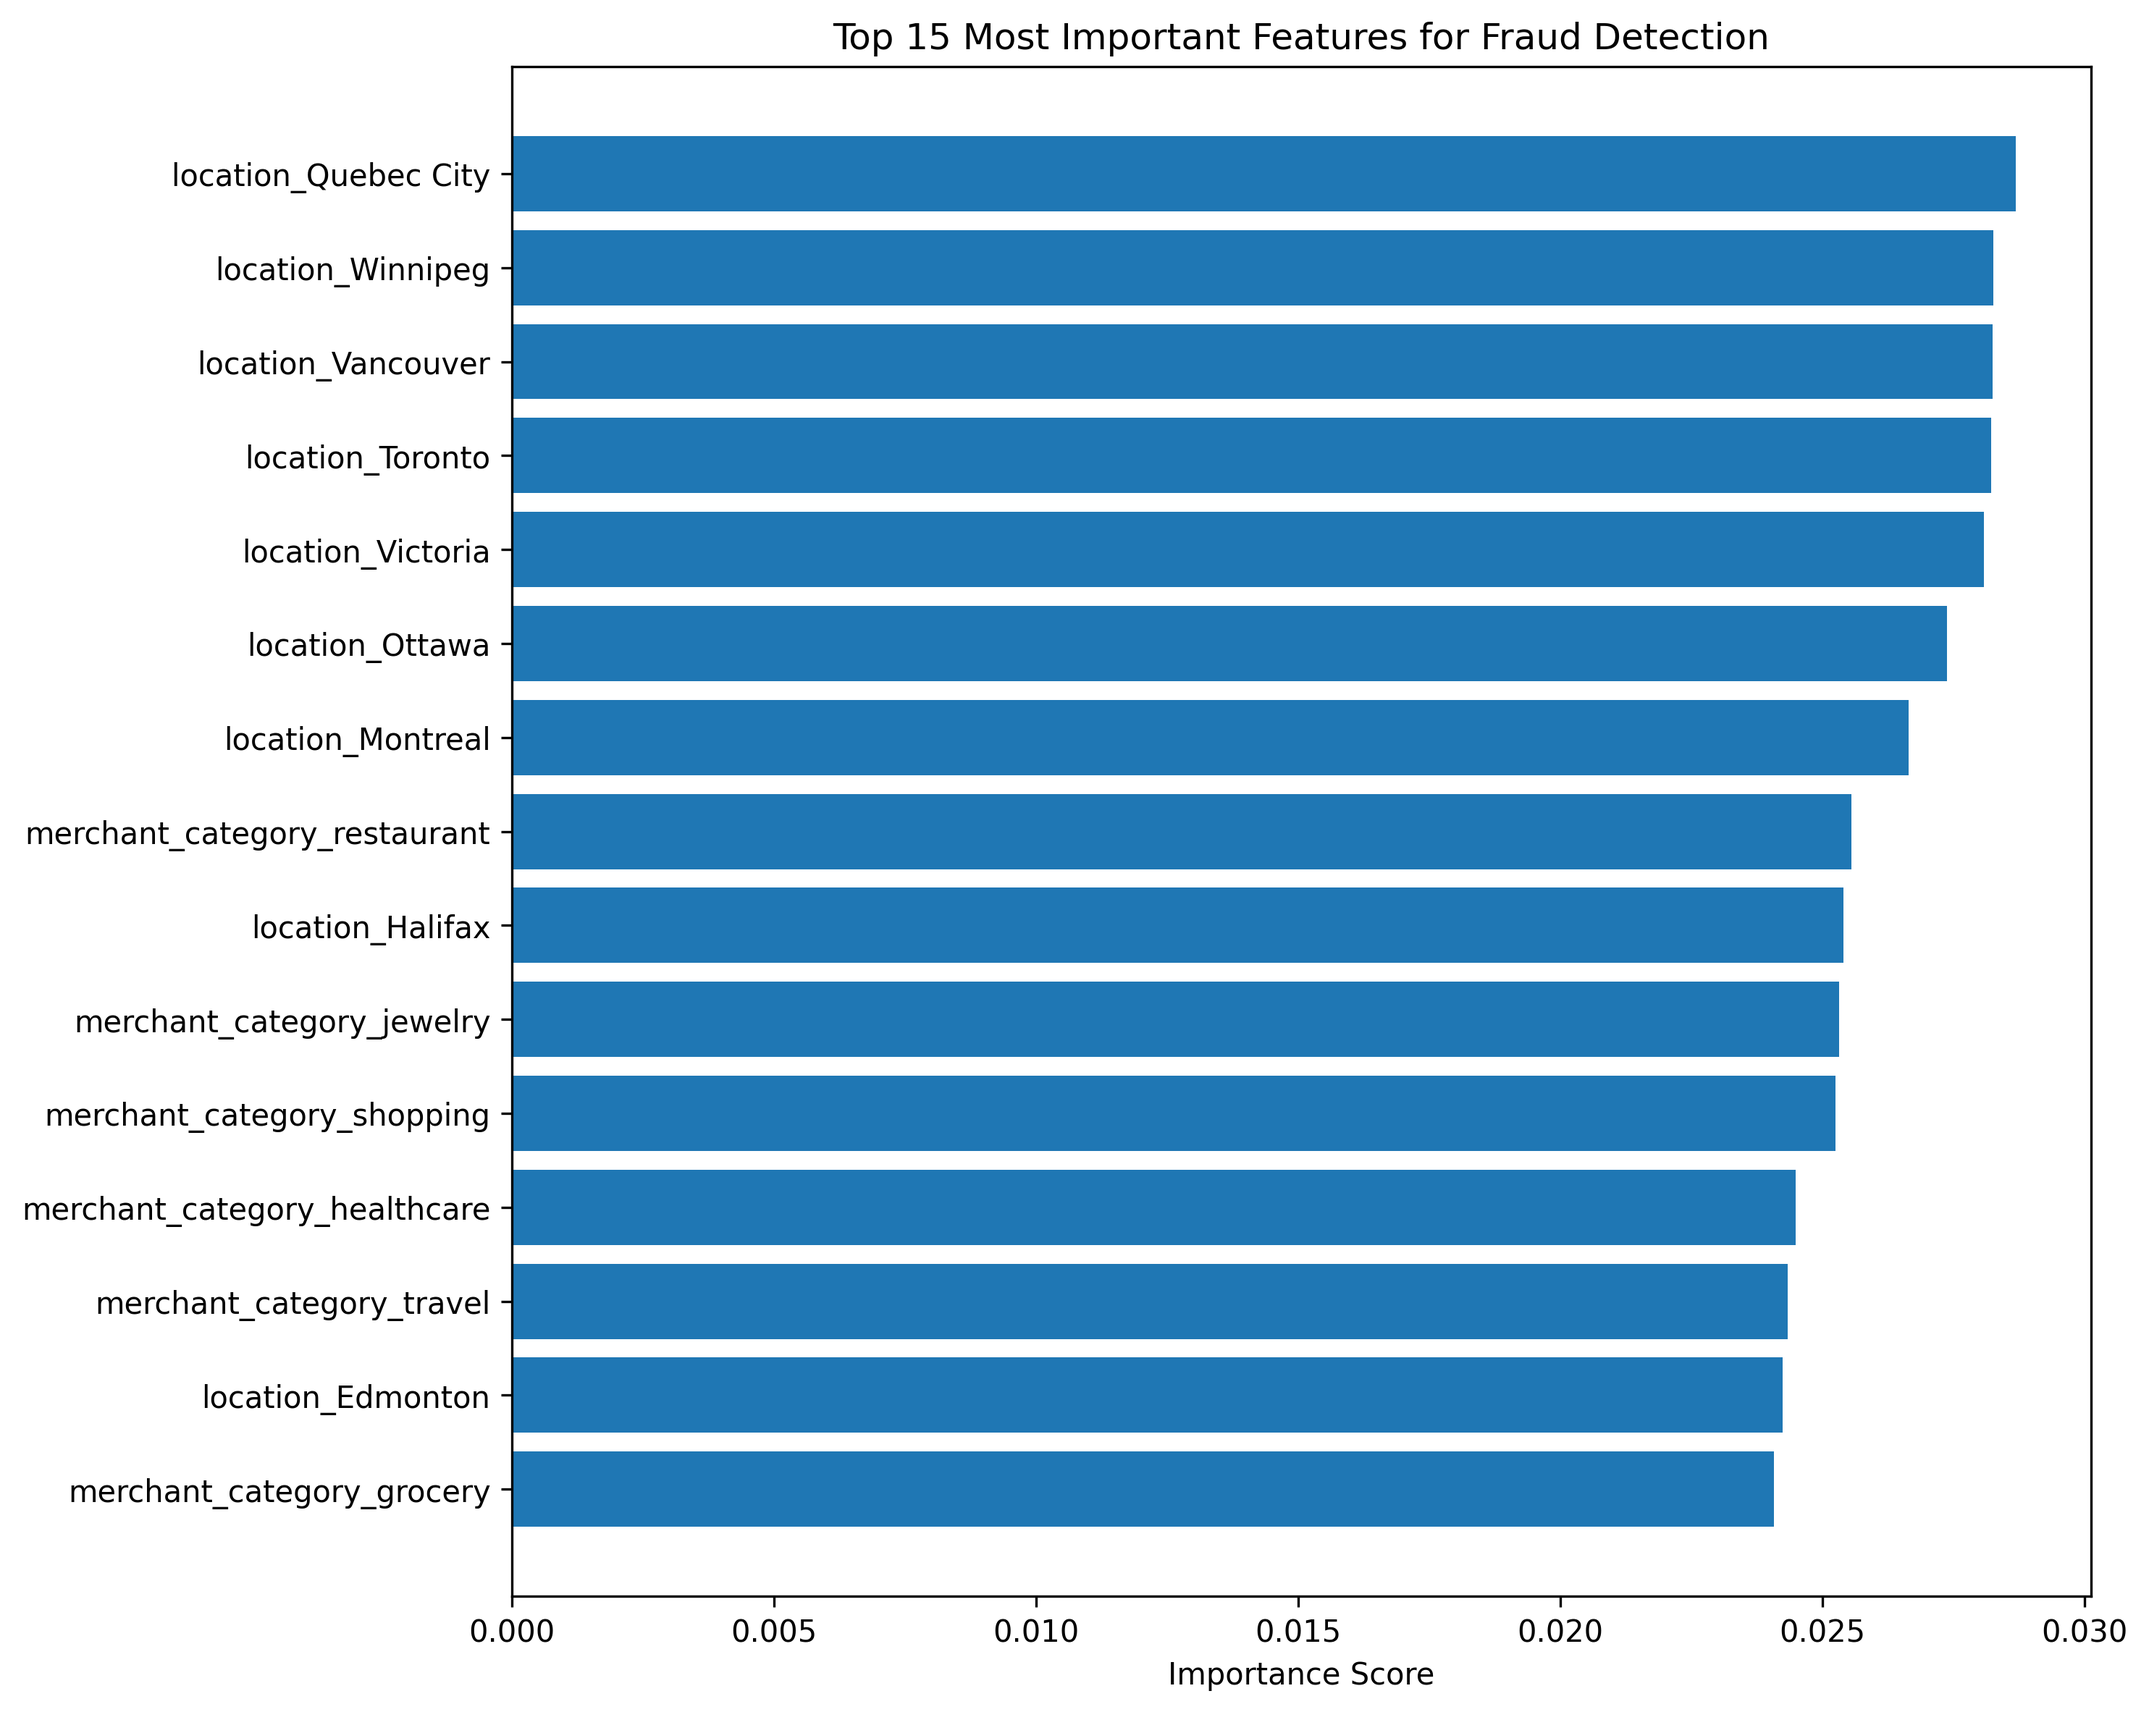
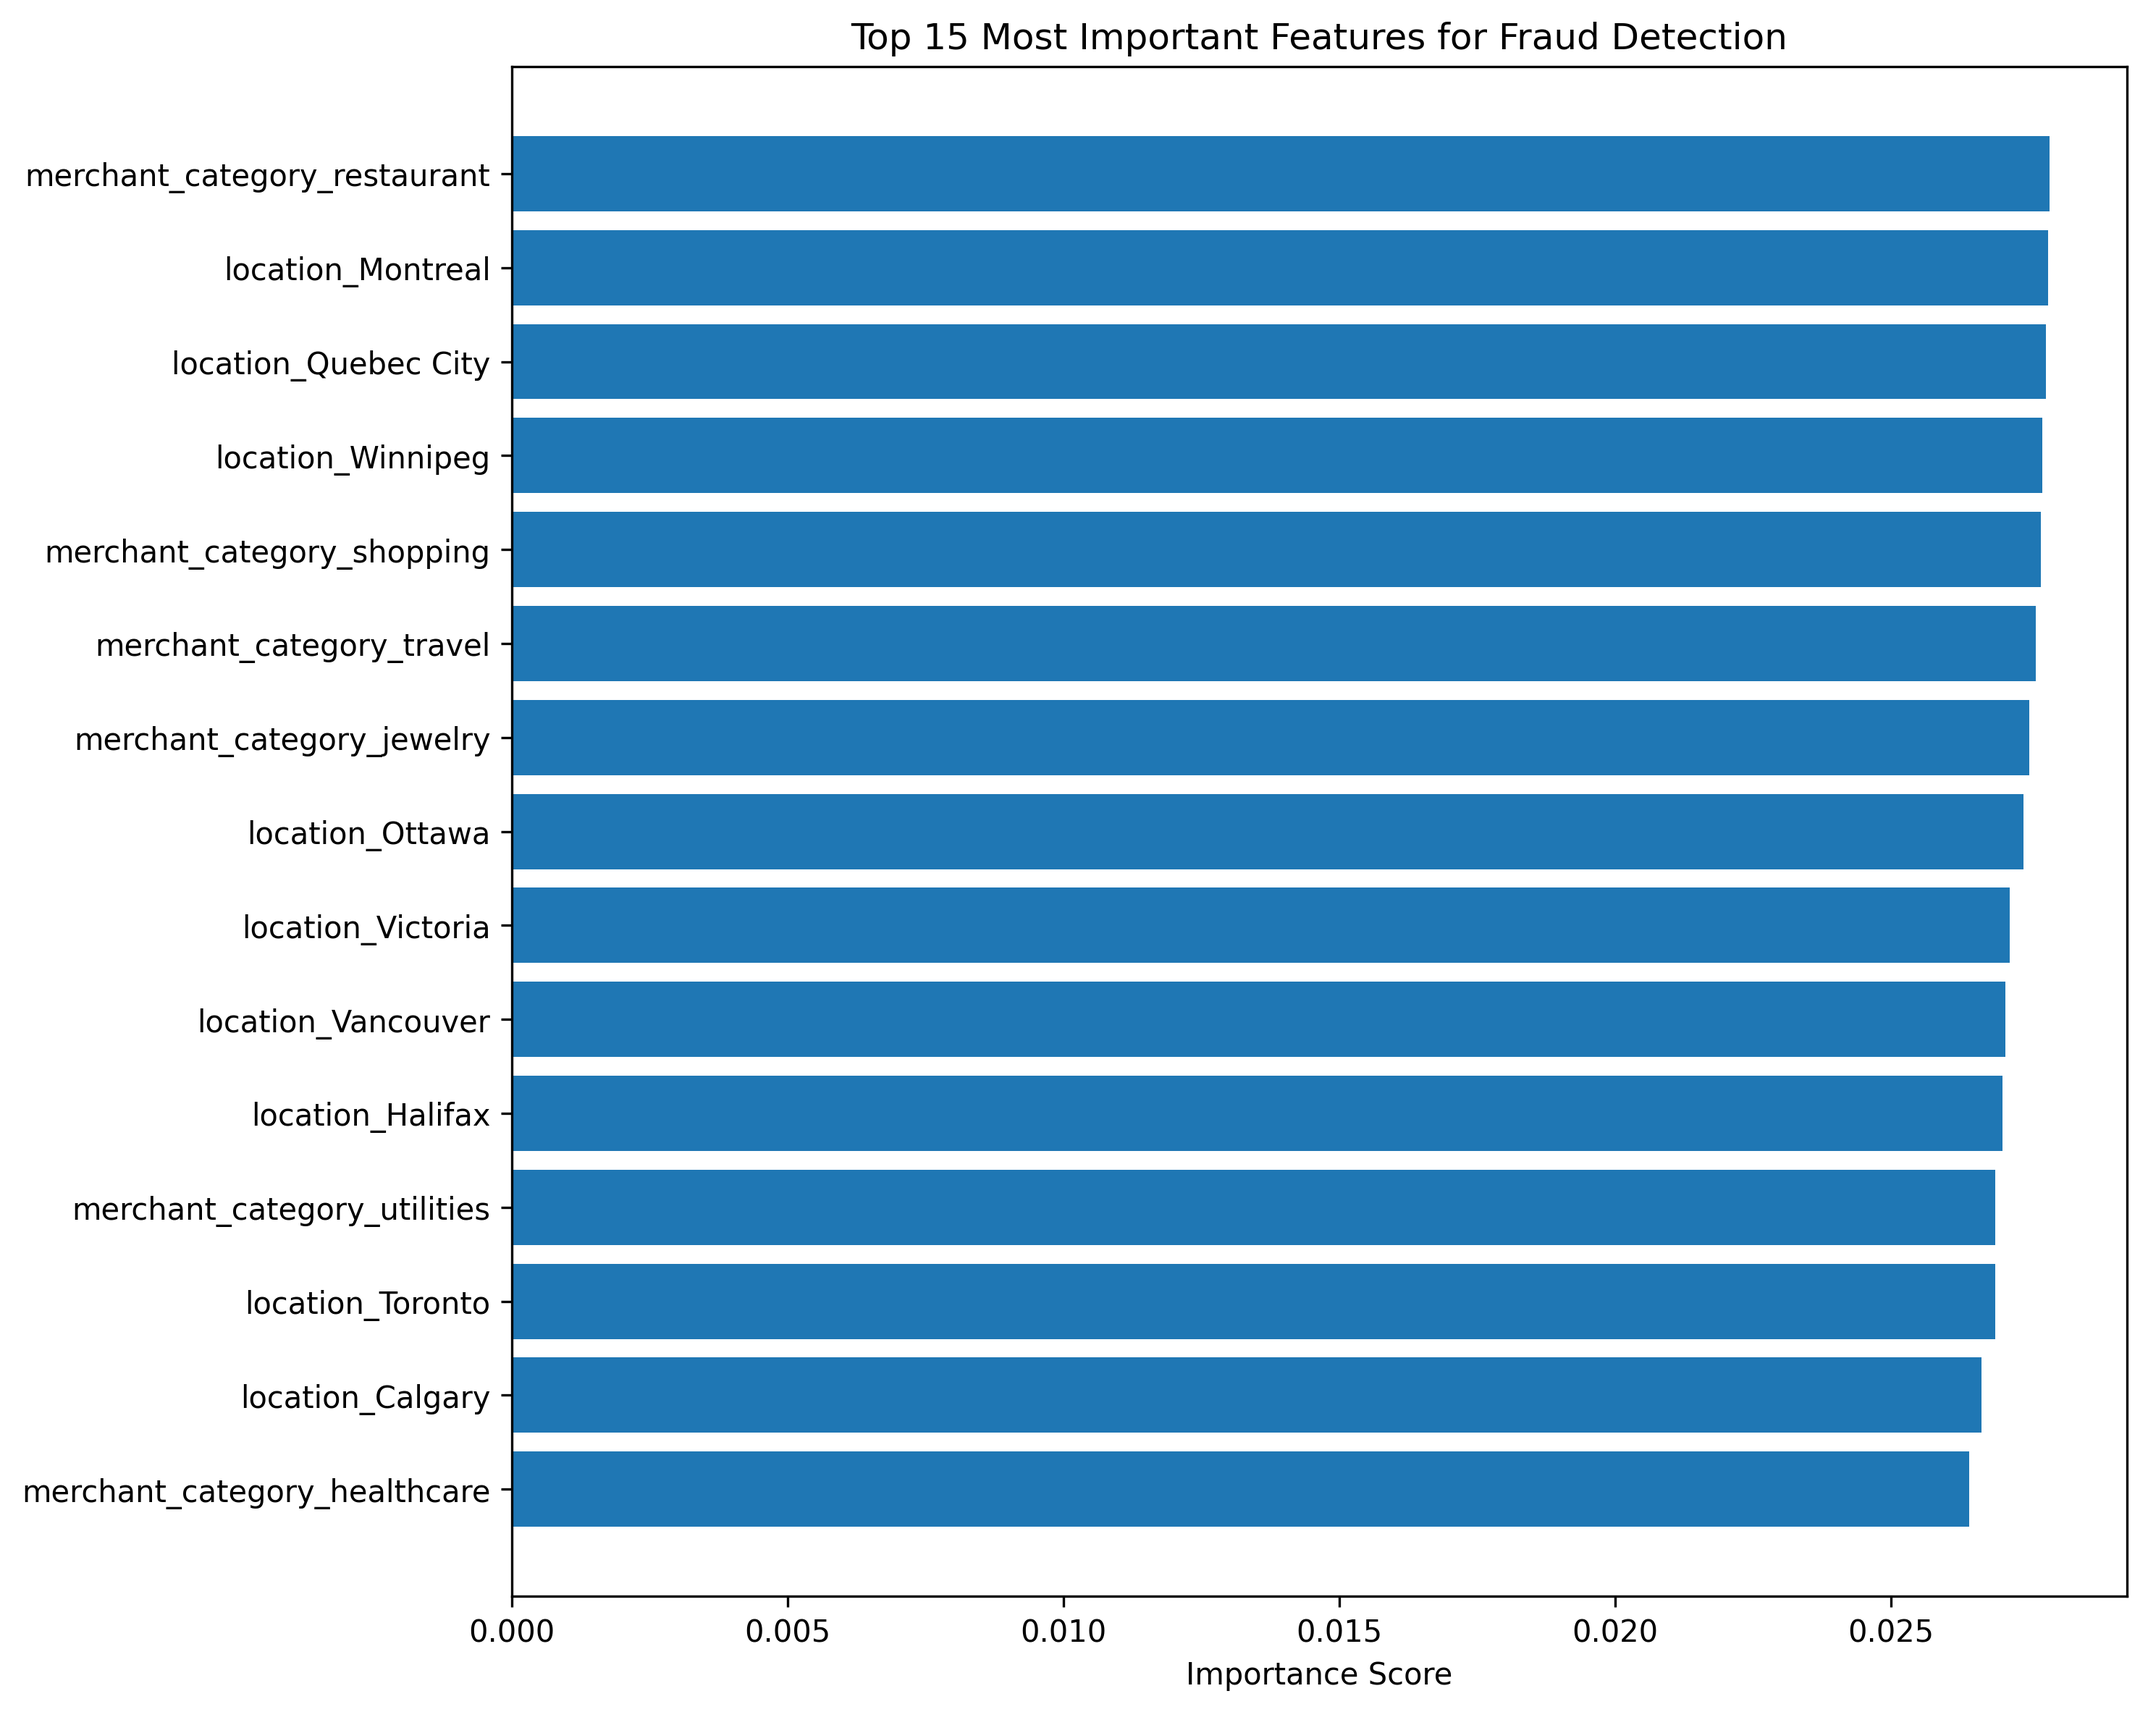
feat(train_models): 1-class svm

diff --git a/src/train_models.py b/src/train_models.py
@@ -1,6 +1,7 @@
 import pandas as pd
 import numpy as np
 from sklearn.ensemble import IsolationForest
+from sklearn.svm import OneClassSVM
 from sklearn.metrics import (
     confusion_matrix, classification_report, average_precision_score, roc_auc_score,
      roc_curve, precision_recall_curve,
@@ -33,6 +34,21 @@ def train_isolation_forest(X_train, contamination = 0.025):
 
     model.fit(X_train)
     print("Training done!")
+    return model
+
+def train_one_class_svm(X_train, nu=0.05):
+    model = OneClassSVM(
+        kernel='rbf',  # Radial Basis Function (Gaussian kernel)
+        gamma='auto',  # Kernel coefficient (auto = 1/n_features)
+        nu=nu,  # Expected outlier fraction
+        cache_size=500,  # Memory cache for kernel (MB)
+        verbose=True
+    )
+    
+    print(f"Training on {len(X_train)} samples with nu={nu}...")
+    model.fit(X_train)
+    
+    print("Training complete!")
     return model
 
 def eval_model(model, X, y, dataset_name="Test"):
@@ -169,7 +185,6 @@ def plot_evaluation_metrics(train_metrics, test_metrics, y_train, y_test):
     plt.savefig('models/model_evaluation.png', dpi=300, bbox_inches='tight')
     print("\nEvaluation plots saved to: models/model_evaluation.png")
 
-
 def analyze_feature_importance(model, feature_names, X_train, top_n=15):
     print(f"\nStarting feature importance analysis for {len(feature_names)} features...")
     baseline_scores = model.decision_function(X_train)
@@ -222,61 +237,32 @@ def main():
         encoder=encoder  # Pass the encoder from training
     )
 
-    contamination = y_train.mean()
-    model = train_isolation_forest(X_train, contamination=contamination)
+    #contamination = y_train.mean()        
+    model_if = train_isolation_forest(X_train, contamination=0.05)
+    model_svm = train_one_class_svm(X_train, nu=0.05)
+    
+    train_metrics_if = eval_model(model_if, X_train, y_train, "Training (IF)")
+    test_metrics_if = eval_model(model_if, X_test, y_test, "Test (IF)")
 
-    train_metrics = eval_model(model, X_train, y_train, "Training")
-    test_metrics = eval_model(model, X_test, y_test, "Test")
-
-    plot_evaluation_metrics(train_metrics, test_metrics, y_train, y_test)
+    train_metrics_svm = eval_model(model_svm, X_train, y_train, "Training (SVM)")
+    test_metrics_svm = eval_model(model_svm, X_test, y_test, "Test (SVM)")
     
-    sample_size = min(1000, len(X_train))
-    X_sample = X_train.sample(sample_size, random_state=42)
-    feature_importance_df = analyze_feature_importance(
-        model, feature_names, X_sample
-    )
-    
-    joblib.dump(model, 'models/isolation_forest.pkl')
-    print("✓ Model saved to: models/isolation_forest.pkl")
-    
-    joblib.dump(scaler, 'models/scaler.pkl')
-    print("✓ Scaler saved to: models/scaler.pkl")
-    
-    joblib.dump(feature_names, 'models/feature_names.pkl')
-    print("✓ Feature names saved to: models/feature_names.pkl")
-    
-    feature_importance_df.to_csv('models/feature_importance.csv', index=False)
-    print("✓ Feature importance saved to: models/feature_importance.csv")
-    
-    metrics_summary = {
-        'train': {
-            'roc_auc': float(train_metrics['roc_auc']),
-            'avg_precision': float(train_metrics['avg_precision']),
-            'false_alarm_rate': float(train_metrics['false_alarm_rate']),
-            'fraud_detection_rate': float(train_metrics['fraud_detection_rate'])
-        },
-        'test': {
-            'roc_auc': float(test_metrics['roc_auc']),
-            'avg_precision': float(test_metrics['avg_precision']),
-            'false_alarm_rate': float(test_metrics['false_alarm_rate']),
-            'fraud_detection_rate': float(test_metrics['fraud_detection_rate'])
-        }
-    }
-    
-    import json
-    with open('models/metrics_summary.json', 'w') as f:
-        json.dump(metrics_summary, f, indent=4)
-    print("✓ Metrics summary saved to: models/metrics_summary.json")
-    
-    #Summary
+    # Compare
     print("\n" + "="*70)
-    print(" TRAINING COMPLETE!")
+    print(" MODEL COMPARISON")
     print("="*70)
-    print("\nModel Performance Summary:")
-    print(f"  Test ROC-AUC: {test_metrics['roc_auc']:.4f}")
-    print(f"  Test Average Precision: {test_metrics['avg_precision']:.4f}")
-    print(f"  Fraud Detection Rate: {test_metrics['fraud_detection_rate']:.2f}%")
-    print(f"  False Alarm Rate: {test_metrics['false_alarm_rate']:.2f}%")
+    print("\nIsolation Forest:")
+    print(f"  ROC-AUC: {test_metrics_if['roc_auc']:.4f}")
+    print(f"  Fraud Detection: {test_metrics_if['fraud_detection_rate']:.2f}%")
+    print(f"  False Alarms: {test_metrics_if['false_alarm_rate']:.2f}%")
     
+    print("\nOne-Class SVM:")
+    print(f"  ROC-AUC: {test_metrics_svm['roc_auc']:.4f}")
+    print(f"  Fraud Detection: {test_metrics_svm['fraud_detection_rate']:.2f}%")
+    print(f"  False Alarms: {test_metrics_svm['false_alarm_rate']:.2f}%")
+    
+    # Save both for ensemble option
+    joblib.dump(model_if, 'models/isolation_forest.pkl')
+    joblib.dump(model_svm, 'models/one_class_svm.pkl')    
 
 if __name__ == "__main__": main()

diff --git a/src/generate_data.py b/src/generate_data.py
@@ -10,7 +10,7 @@ random.seed(42)
 np.random.seed(42)
 
 NUM_USERS = 150
-NUM_TRANSACTIONS = 1200
+NUM_TRANSACTIONS = 12000
 FRAUD_RATE = 0.025  # 2.5% fraud rate
 START_DATE = datetime(2024, 6, 1)
 END_DATE = datetime(2024, 12, 31)
